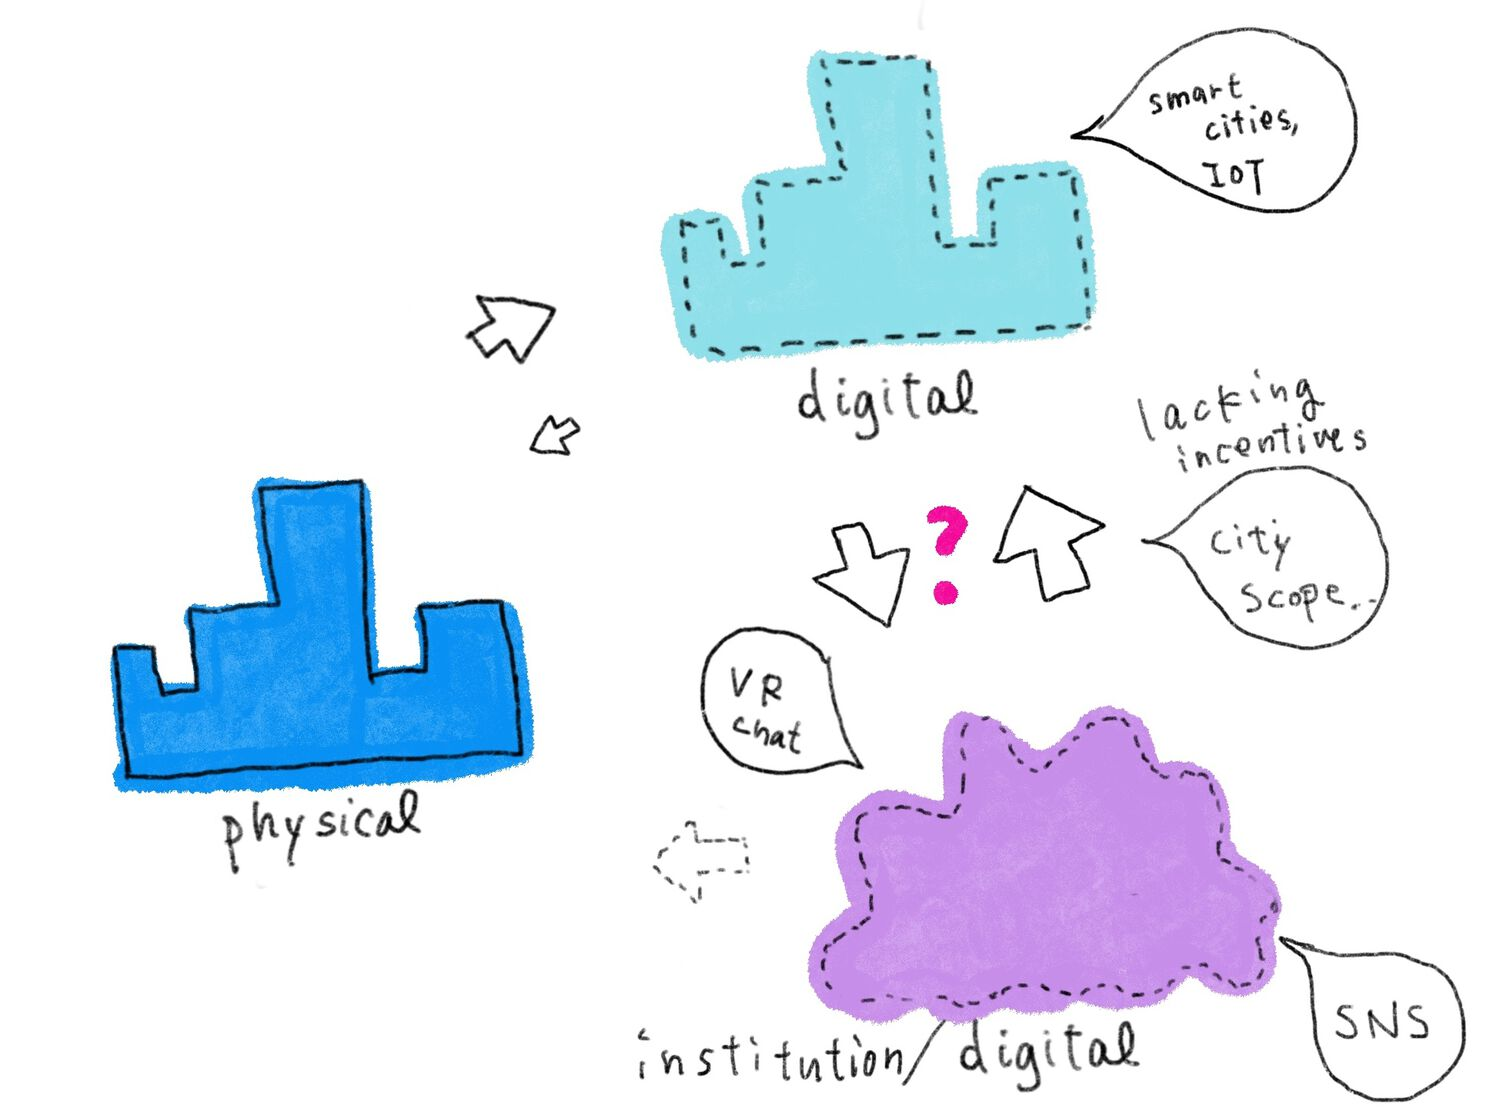
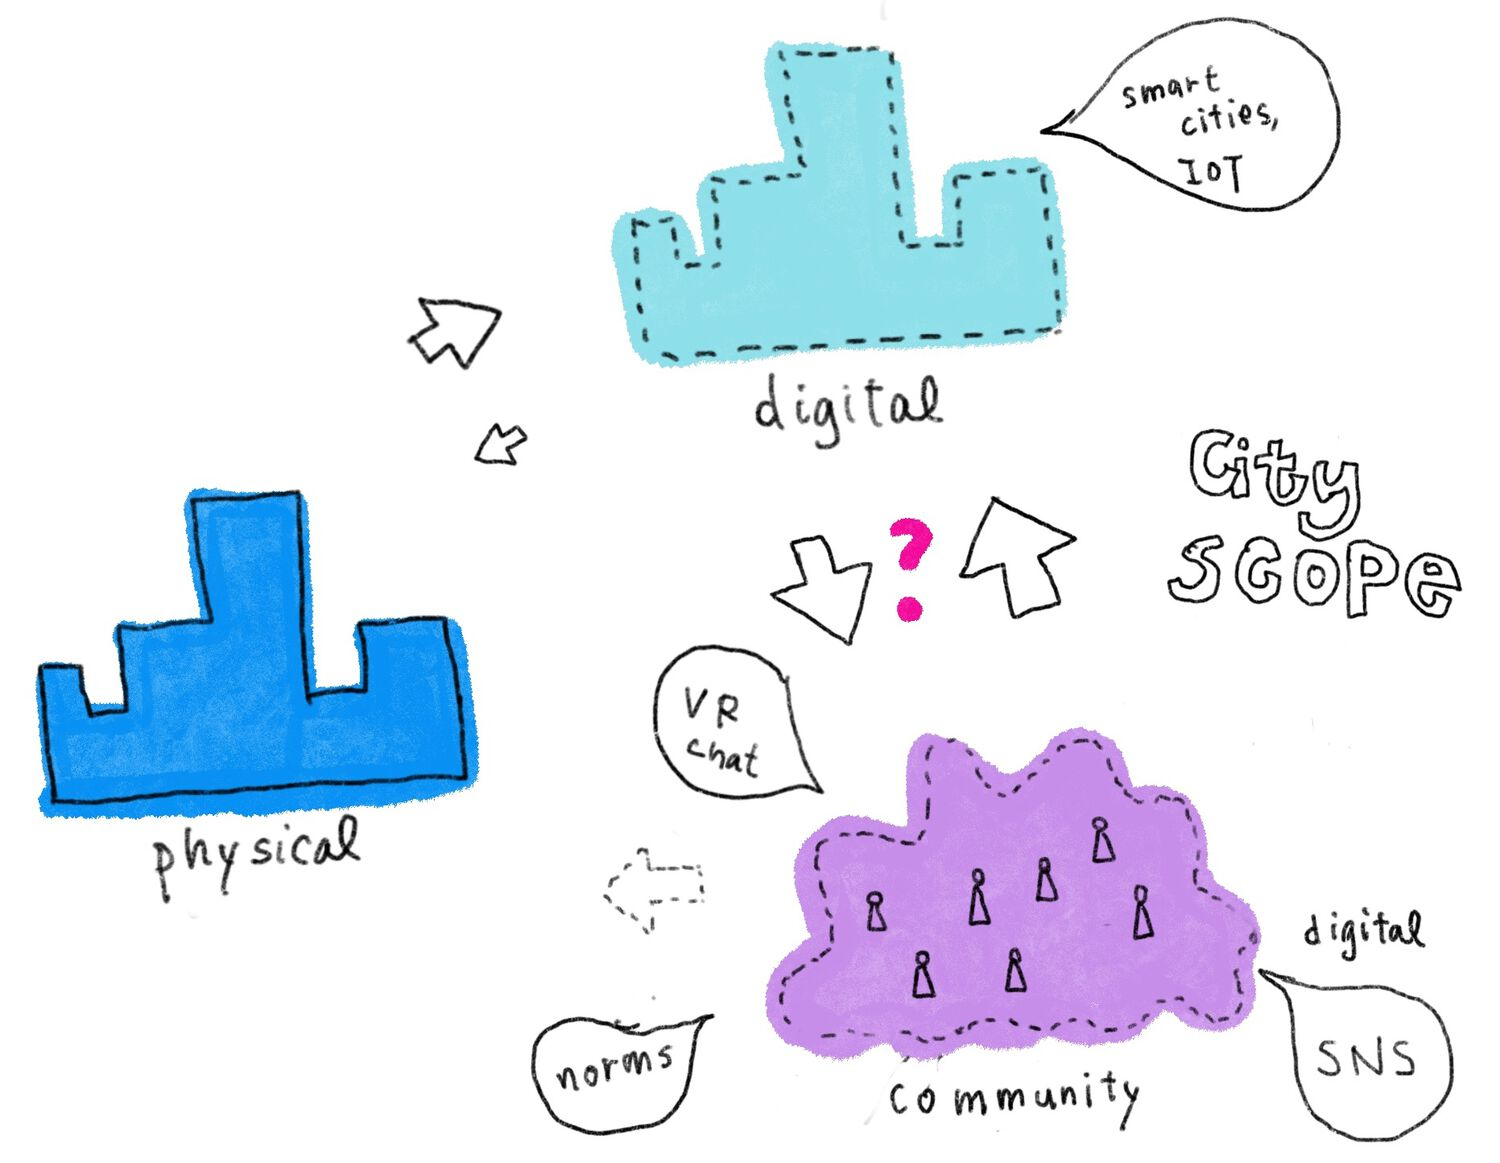
added more images, and lots of words.
next step is to add references.

diff --git a/makuhari_city_concept_draft.html b/makuhari_city_concept_draft.html
@@ -3,7 +3,7 @@
 "http://www.w3.org/TR/xhtml1/DTD/xhtml1-strict.dtd">
 <html xmlns="http://www.w3.org/1999/xhtml" lang="en" xml:lang="en">
 <head>
-<!-- 2021-01-28 Thu 09:51 -->
+<!-- 2021-01-28 Thu 17:52 -->
 <meta http-equiv="Content-Type" content="text/html;charset=utf-8" />
 <meta name="viewport" content="width=device-width, initial-scale=1" />
 <title>Makuhari City Concept Draft</title>
@@ -225,39 +225,238 @@
 <div id="content">
 <h1 class="title">Makuhari City Concept Draft</h1>
 
+<div id="outline-container-org909a392" class="outline-2">
+<h2 id="org909a392"><span class="section-number-2">1</span> Intro: Smart cities are dumb.</h2>
+<div class="outline-text-2" id="text-1">
 
-<div id="org58fe8ea" class="figure">
+<div id="org1df7f26" class="figure">
 <p><img src="images/digital_twin.jpg" alt="digital_twin.jpg" width="100%" />
 </p>
 <p><span class="figure-number">Figure 1: </span>Current state of digital transformation in the context of cities</p>
 </div>
 
+<p>
+Hyper loops, autonomous cars and smart street lights sounds all great.
+</p>
 
-<div id="orgdaa4788" class="figure">
+<p>
+Predictive policing eliminates potential crimes, free wifi everywhere, drones
+delivering your favorite coffee.
+</p>
+
+<p>
+Under the name of IoT, your devices are all connected to each other. Within
+that, you ask for a joke to the AI with a friendly name which you trust that
+calculates your social score <i>accurately</i>. You are constantly watched by
+entities big and small, while intermediate data brokers sell and profit.
+</p>
+
+<p>
+Everything seems to be in it&rsquo;s right place. &#x2026; but is it?
+</p>
+
+<p>
+Some think this version of a smart city is dumber than ever, claiming that
+adopting every new shiny technology with innocent feelings dreaming of the world
+of <i>total efficiency</i> will result in a dystopia.
+</p>
+
+
+<div id="orgf421926" class="figure">
 <p><img src="images/digital_twin_institutions.jpg" alt="digital_twin_institutions.jpg" width="100%" />
 </p>
-<p><span class="figure-number">Figure 2: </span>There is discrepancy between the social layer and the implementation of digital twins.</p>
+<p><span class="figure-number">Figure 2: </span>There is discrepancy between the social layer and the implementation of digital twins related technology.</p>
 </div>
 
+<p>
+My two answers are bot ambivalent. I don&rsquo;t know, or it depends.
+</p>
 
-<div id="org26b5ff4" class="figure">
+<p>
+Either way one thing missing is the community. People deciding on their own
+physical infrastructure, thinking to improve the community striving for equality
+and inclusiveness. Sharing knowledge of new attempts to make the region safer
+and learning from mistakes is important than mindlessly selling personal data
+sucked through your phone and free wifi Kiosks.
+</p>
+
+<p>
+This is participation. Apart from it&rsquo;s fancy projection mapping and mesmerizing
+graphics, the core value of the City Scope is the ability to deliberate while
+surrounding a physical table. Simulation that supports people talking to each
+other to meet consensus. We want to reveal the properties of this type of
+smartness.
+</p>
+
+<p>
+Like the city scipe, we want to somehow bind the two soft intangible media
+together; the digital twin and the community to meet comunity needs.
+</p>
+
+<p>
+Let&rsquo;s look at a different example, also involving an intangible entity.
+</p>
+</div>
+</div>
+
+<div id="outline-container-org9ddaaea" class="outline-2">
+<h2 id="org9ddaaea"><span class="section-number-2">2</span> Real Estate</h2>
+<div class="outline-text-2" id="text-2">
+<p>
+A corporation is one type of collective intelligence, which is structured around
+hierarchy, top down decisions to maximize profit to sustain. Like a community,
+it&rsquo;s an intangible entity, that owns physical property. These corporations often
+gets criticized increasing land value through re-development; gentrification.
+Making it unaffordable to live for a diverse community often providing essential
+service.
+</p>
+
+<p>
+For the region it&rsquo;s not all bad. These development plans do have incentives to
+nourish cultural activity like building museums and pocket parks adding QoL to
+the neighborhood. But only if this leads to increase in land value = profit.
+</p>
+
+
+<div id="org63c1f20" class="figure">
 <p><img src="images/real_estate.jpg" alt="real_estate.jpg" width="100%" />
 </p>
 <p><span class="figure-number">Figure 3: </span>Real estate corporations, while being an intangible institution owns portions of physical property. And although for profit, they also have an incentive to invest in cultural assets to increase the overall land value that they own.</p>
 </div>
 
+<p>
+The core proposal of this document is this. Why not have the community to own
+the region by the help of DAOs. A DAO is an organization without a centralized
+form of power that governs itself with the help of technology, short for
+decentralized autonomous organizations. They certainly need to be profitable to
+some degree to be a sustainable community, but the decision is not from a
+corporate pyramid kind of collective intelligence.
+</p>
 
-<div id="org075fe09" class="figure">
+<p>
+Public impressions of DAOs are not great. In fact the most famous example is a
+disastrous one, when a hacker spoofed one third of the investment money by
+exploiting the application running on top of the block-chain. Defenders of the
+concept says it wasn&rsquo;t the underlying infrastructure that failed but the
+additional layer that was developed above the block chain mechanism. It&rsquo;s still
+a big lesson learned that it&rsquo;s difficult to implement it correctly.
+</p>
+
+<p>
+Despite the boring nature when it&rsquo;s working, some examples show success in
+collectively reaching consensus using this technology, and not all DAO&rsquo;s should
+exclusively focus on investment but direct it to create a sustainable community.
+</p>
+
+<p>
+Plus, new ideas for alternative democratic processes are worth trying out such
+as liquid democracy<sup><a id="fnr.1" class="footref" href="#fn.1">1</a></sup>, and new ways are proposed to safely handle personal
+data, while avoiding locking it down to one centralized service. It&rsquo;s called web
+3.0.
+</p>
+
+
+<div id="org2d3b75c" class="figure">
 <p><img src="images/makuhari_dao.jpg" alt="makuhari_dao.jpg" width="100%" />
 </p>
 <p><span class="figure-number">Figure 4: </span>Why not have a DAO to acquire physical assets with a flexible decision making process, backed by safe and non-invasive web3 technology like Decentralized Identities?</p>
 </div>
+</div>
+</div>
 
-
+<div id="outline-container-org6342189" class="outline-2">
+<h2 id="org6342189"><span class="section-number-2">3</span> But, wait &#x2026; isn&rsquo;t this <i>a City</i>?</h2>
+<div class="outline-text-2" id="text-3">
 <p>
-Core contribution:
+Yes, this really looks like <b>governance</b> as we know it, except for an weird
+flexible democratic process and some black magic cryptography. If the community
+is deciding on how they maintain physical assets as their environment, this is
+very close to a city governing itself.
 </p>
 
+
+<div id="orgcb1a4ff" class="figure">
+<p><img src="images/dao_city.jpg" alt="dao_city.jpg" width="100%" />
+</p>
+<p><span class="figure-number">Figure 5: </span>examples of consensus</p>
+</div>
+
+<p>
+With this in mind enter Makuhari City (<i>幕張市</i>). &ldquo;Makuhari&rdquo; is a district not too
+far east of the Tokyo Metropolitan area, mostly consisted of landfills. The
+large-scale convention centers in this area are known as locations for expo
+level gatherings and events. Because of this, the site is widely misunderstood
+as &ldquo;Makuhari City&rdquo; by the people of Tokyo. It is not an official administrative
+district, but only a common name that refers to the Hanamigawa and Mihama wards
+of Chiba City, Chiba Prefecture.
+</p>
+
+<p>
+The mayor of Chiba City himself corrected this fact after receiving inquiries
+from people looking for Makuhari City&rsquo;s location, believing that it exists. Aoki
+Ryuta suggested that we take advantage of this and plan &ldquo;Makuhari City,&rdquo; an
+administrative district that exists in people&rsquo;s minds but does not exist.
+</p>
+
+
+<div id="orgd2b0fd2" class="figure">
+<p><img src="images/makuhari_city.jpg" alt="makuhari_city.jpg" width="100%" />
+</p>
+<p><span class="figure-number">Figure 6: </span>Makuhari city</p>
+</div>
+</div>
+</div>
+
+<div id="outline-container-orgc8b388d" class="outline-2">
+<h2 id="orgc8b388d"><span class="section-number-2">4</span> Steps to proceed</h2>
+<div class="outline-text-2" id="text-4">
+<p>
+Enacting a DAO whose primary focus is real estate acquisition and at the same
+time respecting the surrounding culture can not be accomplished overnight.
+</p>
+
+<p>
+This grand ambition has to start small. We first begin to develop a minimal
+example of a DAO, utilizing Decentralized Identities and Liquid Democracy. Then,
+we will test the system by conducting a collective decision-making project. An
+example of such a project could be a virtual architectural competition to
+determine the (virtual) city hall&rsquo;s design.
+</p>
+
+
+<div id="org6046db2" class="figure">
+<p><img src="images/start_small.jpg" alt="start_small.jpg" width="100%" />
+</p>
+<p><span class="figure-number">Figure 7: </span>Dev milestones (short term)</p>
+</div>
+
+<p>
+If this succeeds, we can further develop eventually building up to acquire real
+estate, while collectively deciding how to maintenance or even the design of the
+space may be selected collectively using the system. If the system works, this
+might also help traditional types of municipals for participatory design
+projects, by using the open sourced version of the system.
+</p>
+
+
+<div id="org38ffd30" class="figure">
+<p><img src="images/makuhari_timeline.jpg" alt="makuhari_timeline.jpg" width="100%" />
+</p>
+<p><span class="figure-number">Figure 8: </span>Dev milestones (extended)</p>
+</div>
+
+<p>
+This was discussed and brought up in the &ldquo;Makuhari city, gov tech seminar
+series&rdquo; organized by MetaCity. The participated panels were Hiroyuki Kurimoto,
+Masayoshi Mitsui, Ryuta Aoki, and Yasushi Sakai. Any credit for the idea resides
+to them.
+</p>
+</div>
+</div>
+
+<div id="outline-container-orgd0fec01" class="outline-2">
+<h2 id="orgd0fec01"><span class="section-number-2">5</span> Core contribution</h2>
+<div class="outline-text-2" id="text-5">
 <ul class="org-ul">
 <li>Propose an more inclusive organizational entity that better suits for
 community needs, rather selling new technology purely for profit.</li>
@@ -268,33 +467,24 @@ building.</li>
 <li>Provide tools for municipalities to support organized participatory design
 events. (By open sourcing)</li>
 </ul>
-
-
-<div id="org829564d" class="figure">
-<p><img src="images/makuhari_timeline.jpg" alt="makuhari_timeline.jpg" width="100%" />
-</p>
-<p><span class="figure-number">Figure 5: </span>Dev milestones</p>
 </div>
-
-
-
-<div id="org5d28586" class="figure">
-<p><img src="images/dao_city.jpg" alt="dao_city.jpg" width="100%" />
-</p>
 </div>
+<div id="footnotes">
+<h2 class="footnotes">Footnotes: </h2>
+<div id="text-footnotes">
+
+<div class="footdef"><sup><a id="fn.1" class="footnum" href="#fnr.1">1</a></sup> <div class="footpara"><p class="footpara">
+It&rsquo;s not new actually, it&rsquo;s a generalized method of fractional voting
+that can handle direct and in-direct democracy at the same time.
+</p></div></div>
 
 
-<p>
-This was discussed and brought up in the &ldquo;Makuhari city, gov tech seminar
-series&rdquo; organized by MetaCity. The participated panels were Hiroyuki Kurimoto,
-Masayoshi Mitsui, Ryuta Aoki, and Yasushi Sakai. Any credit for the idea resides
-to them.
-</p>
 </div>
+</div></div>
 <div id="postamble" class="status">
 <p class="date">Date: 2021-01-28 06:13</p>
 <p class="author">Author: Yasushi Sakai</p>
-<p class="date">Created: 2021-01-28 Thu 09:51</p>
+<p class="date">Created: 2021-01-28 Thu 17:52</p>
 </div>
 </body>
 </html>
